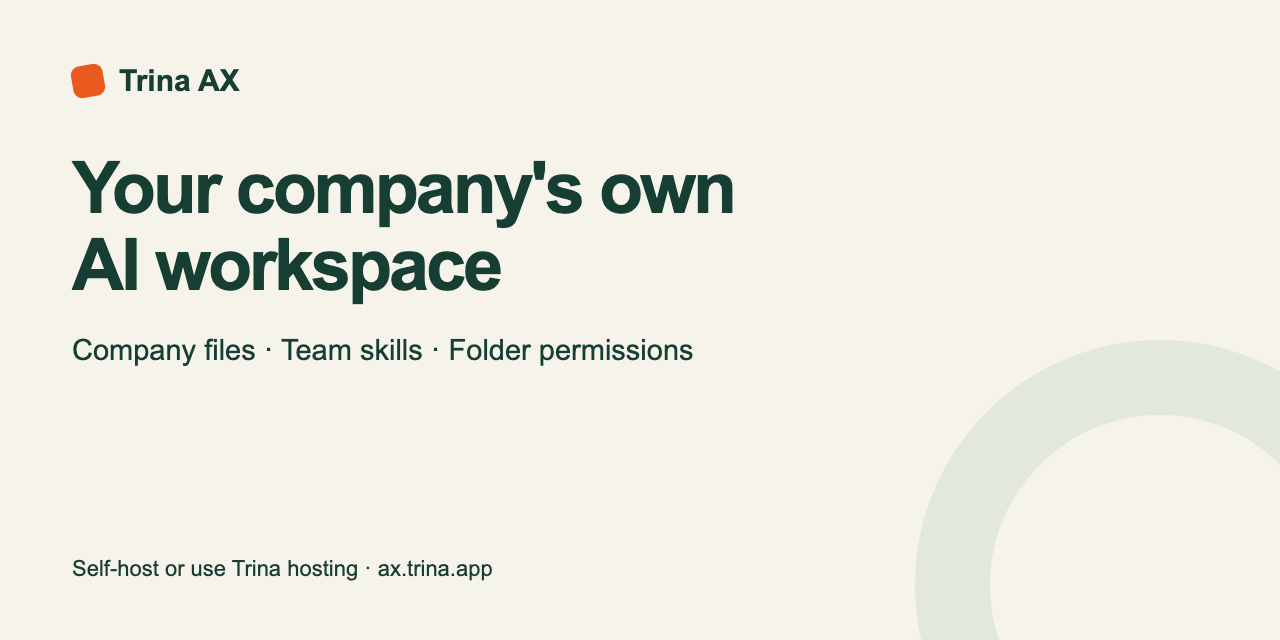
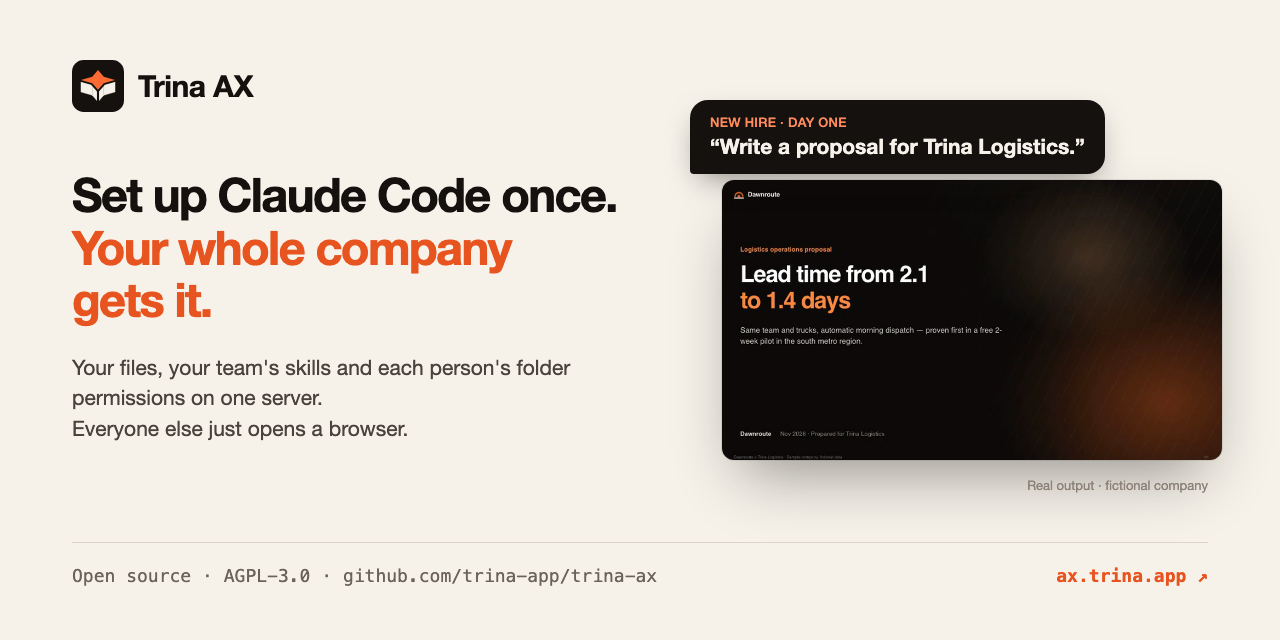
Social preview card with the new tagline and a real output

diff --git a/docs/images/README.md b/docs/images/README.md
@@ -19,7 +19,7 @@ Captured 2026-10-30 (Asia/Jakarta) from the local `docs/team-first` worktree bas
 
 The audit's live meeting-summary chat and HR-vs-sales answer pair need a permitted test-provider connection. This set substitutes clearly labeled marketing/finance file-access evidence, not fabricated answers. Live AI result and populated-usage captures remain pending.
 
-`github-social-preview.png` is a separate 1280×640 original typographic card, rendered in Playwright from text and simple shapes. It is not an application screenshot and has not been uploaded to GitHub. The older `demo-workspace.png` is retained as an existing historical capture; it is not used in the new README.
+`github-social-preview.png` is the repository's 1280×640 social preview card (2026-11-01), rendered in Playwright from text, the logo and `readme/after-trina-deck.png` (a real output, fictional company; labeled in the card). The older `demo-workspace.png` is retained as an existing historical capture; it is not used in the new README.
 
 ## README hero and comparison images (`readme/`, 2026-10-31)
 
